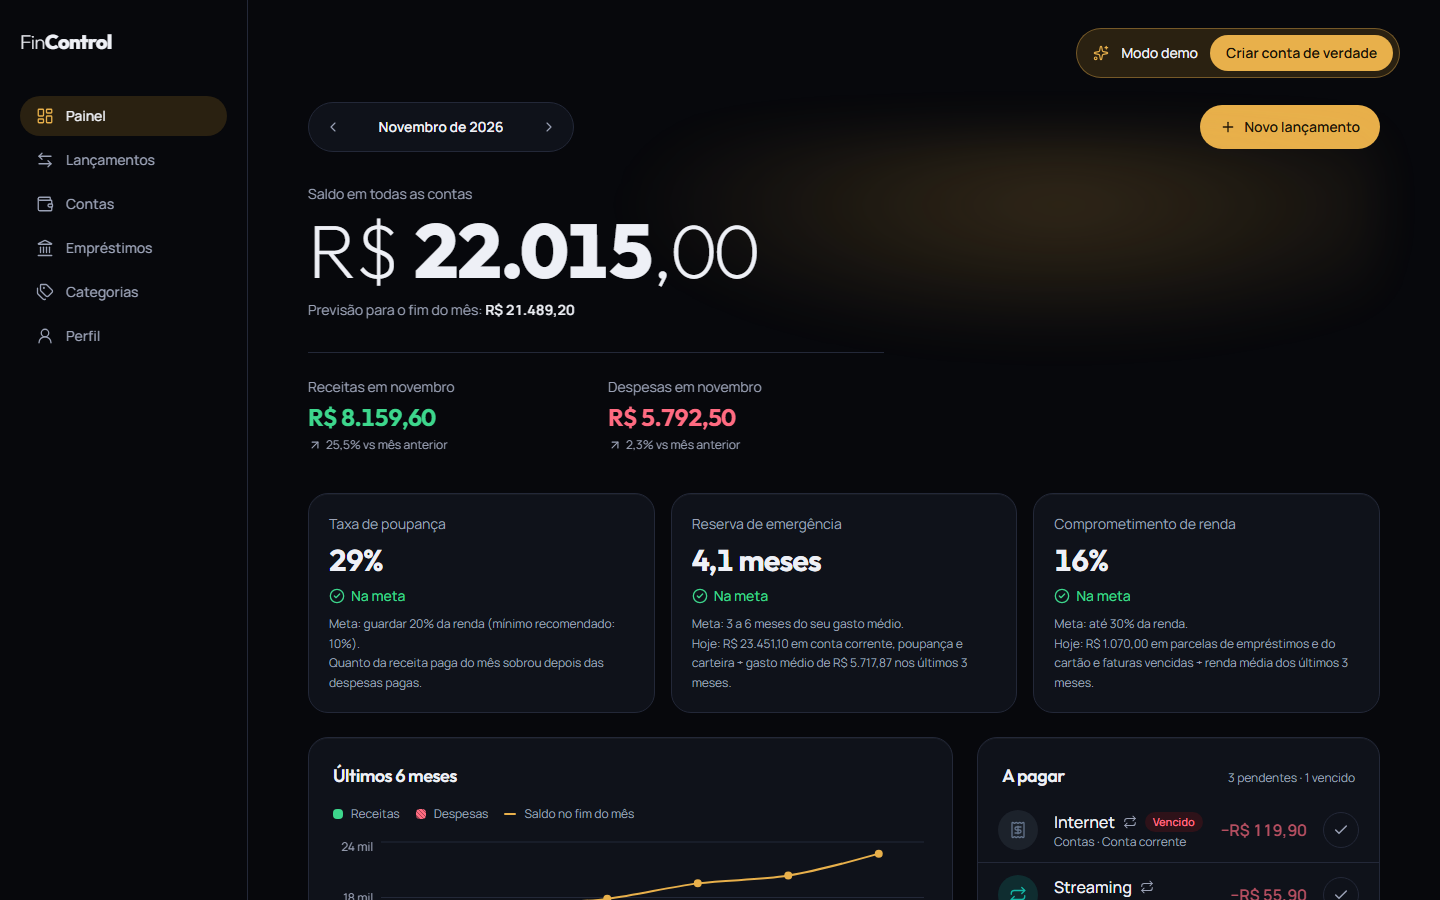
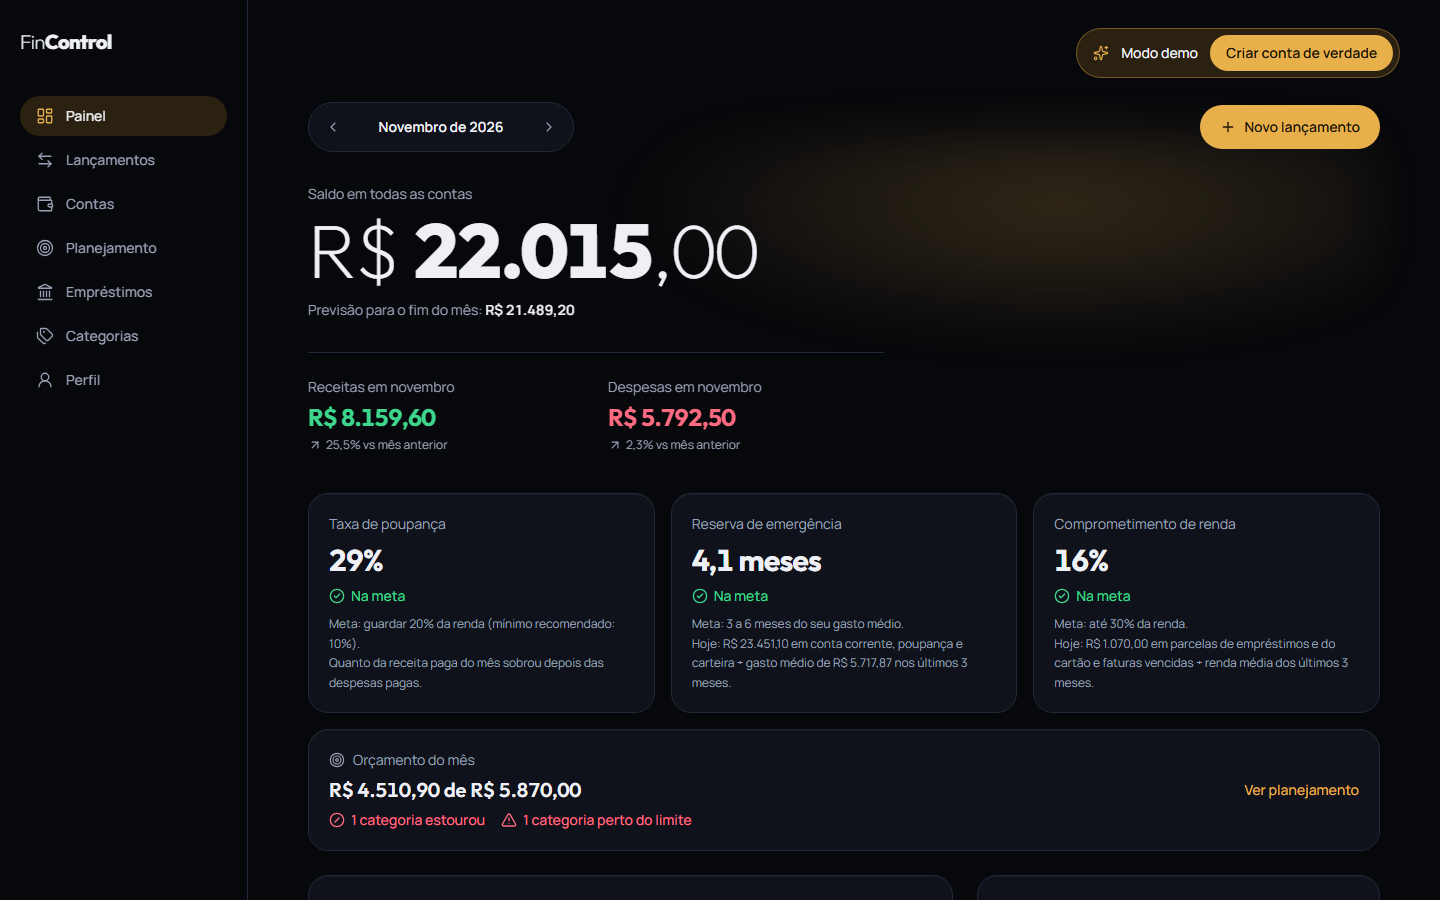
test(e2e): limite por categoria e meta com depósito; docs do sub-projeto 3

diff --git a/e2e/tests/planejamento.spec.ts b/e2e/tests/planejamento.spec.ts
@@ -1,0 +1,55 @@
+import { expect, test } from '@playwright/test';
+import { createAccount, openNewTransaction, signUp, uniqueEmail } from './helpers';
+
+/** Data em São Paulo daqui a `months` meses (dia 1, sempre válido). */
+function firstDayInMonths(months: number): string {
+  const [y, m] = new Intl.DateTimeFormat('en-CA', { timeZone: 'America/Sao_Paulo' }).format(new Date()).split('-').map(Number);
+  const d = new Date(Date.UTC(y!, m! - 1 + months, 1));
+  return d.toISOString().slice(0, 10);
+}
+
+test('limite por categoria avisa "Perto do limite", e a meta acompanha os depósitos', async ({ page }) => {
+  await signUp(page, { name: 'Pia Plano', email: uniqueEmail('planejamento') });
+  await createAccount(page, 'Corrente', '500000');
+
+  // Limite de R$ 500 em Alimentação.
+  await page.goto('/planejamento');
+  await page.getByRole('article', { name: 'Alimentação' }).getByRole('button', { name: 'Definir limite' }).click();
+  const limitDialog = page.getByRole('dialog', { name: 'Limite de Alimentação' });
+  await limitDialog.getByLabel('Limite mensal').fill('50000');
+  await limitDialog.getByRole('button', { name: 'Salvar limite' }).click();
+  await expect(limitDialog).toBeHidden();
+
+  // Despesa paga de R$ 450 em Alimentação → 90%, "Perto do limite" (critério 1).
+  const tx = await openNewTransaction(page);
+  await tx.getByLabel('Valor').fill('45000');
+  await tx.getByLabel('Descrição').fill('Mercado do mês');
+  await tx.getByLabel('Categoria').selectOption({ label: 'Alimentação' });
+  await tx.getByLabel('Já está pago').check();
+  await tx.getByRole('button', { name: 'Salvar lançamento' }).click();
+  await expect(tx).toBeHidden();
+
+  await page.goto('/planejamento');
+  const food = page.getByRole('article', { name: 'Alimentação' });
+  await expect(food).toContainText('R$ 450,00 de R$ 500,00');
+  await expect(food).toContainText('Perto do limite');
+
+  // Meta de R$ 4.000 em 6 meses com um depósito de R$ 1.000 (critério 4).
+  await page.getByRole('tab', { name: 'Metas' }).click();
+  await page.getByRole('button', { name: 'Nova meta' }).first().click();
+  const goalDialog = page.getByRole('dialog', { name: 'Nova meta' });
+  await goalDialog.getByLabel('Nome').fill('Notebook');
+  await goalDialog.getByLabel('Valor da meta').fill('400000');
+  await goalDialog.getByLabel('Prazo').fill(firstDayInMonths(6));
+  await goalDialog.getByRole('button', { name: 'Salvar meta' }).click();
+  await expect(goalDialog).toBeHidden();
+
+  await page.getByRole('article', { name: 'Notebook' }).getByRole('button', { name: 'Ver detalhes' }).click();
+  const detail = page.getByRole('dialog', { name: 'Notebook' });
+  await detail.getByLabel('Valor').fill('100000');
+  await detail.getByRole('button', { name: 'Registrar depósito' }).click();
+  await expect(detail).toContainText('R$ 1.000,00 guardados de R$ 4.000,00');
+  await page.keyboard.press('Escape');
+  await expect(page.getByRole('article', { name: 'Notebook' })).toContainText('R$ 1.000,00 de R$ 4.000,00');
+  await expect(page.getByRole('article', { name: 'Notebook' })).toContainText('25%');
+});

diff --git a/e2e/tests/mobile-e-publico.spec.ts b/e2e/tests/mobile-e-publico.spec.ts
@@ -11,12 +11,27 @@ test.describe('tela de 360 px', () => {
     await page.goto('/emprestimos');
     const emprestimo = await page.getByRole('article', { name: 'Financiamento do carro' }).getByRole('link', { name: /Ver detalhes/ }).getAttribute('href');
 
-    const paths = ['/', '/lancamentos', '/contas', faturas!, '/emprestimos', emprestimo!, '/categorias', '/perfil', '/privacidade', '/termos'];
+    const paths = [
+      '/', '/lancamentos', '/contas', faturas!, '/emprestimos', emprestimo!, '/planejamento', '/planejamento?aba=metas',
+      '/categorias', '/perfil', '/privacidade', '/termos',
+    ];
     for (const path of paths) {
       await page.goto(path);
       await page.waitForLoadState('networkidle');
       const overflow = await page.evaluate(() => document.documentElement.scrollWidth - document.documentElement.clientWidth);
       expect(overflow, `rolagem horizontal em ${path}`).toBeLessThanOrEqual(0);
+      // A área principal usa overflow-x: clip, que esconde o que passa da tela sem gerar rolagem: mede os elementos.
+      const clipped = await page.evaluate(() =>
+        [...document.querySelectorAll('main *')].filter((el) => {
+          if (el.getBoundingClientRect().right <= document.documentElement.clientWidth + 0.5) return false;
+          // Dentro de uma área com rolagem própria (ex.: filtros de Lançamentos), passar da borda é intencional.
+          for (let p = el.parentElement; p && p.tagName !== 'MAIN'; p = p.parentElement) {
+            if (['auto', 'scroll'].includes(getComputedStyle(p).overflowX)) return false;
+          }
+          return true;
+        }).length,
+      );
+      expect(clipped, `conteúdo cortado na borda em ${path}`).toBe(0);
     }
   });
 });

diff --git a/apps/web/src/features/dashboard/category-donut.tsx b/apps/web/src/features/dashboard/category-donut.tsx
@@ -18,7 +18,7 @@ export function CategoryDonut({ data }: { data: CategorySpendDTO[] }) {
   const slices = fold(data);
   const total = slices.reduce((s, c) => s + c.total, 0);
   return (
-    <div className="grid items-center gap-6 sm:grid-cols-[180px_1fr]">
+    <div className="grid grid-cols-1 items-center gap-6 sm:grid-cols-[180px_minmax(0,1fr)]">
       <div className="relative mx-auto h-44 w-44" aria-hidden>
         <ResponsiveContainer width="100%" height="100%">
           <PieChart>
@@ -36,7 +36,7 @@ export function CategoryDonut({ data }: { data: CategorySpendDTO[] }) {
           </div>
         </div>
       </div>
-      <ul className="grid gap-2.5">
+      <ul className="grid min-w-0 grid-cols-1 gap-2.5">
         {slices.map((s) => {
           const Icon = iconFor(s.icon);
           return (
@@ -44,9 +44,9 @@ export function CategoryDonut({ data }: { data: CategorySpendDTO[] }) {
               <span className="grid h-7 w-7 shrink-0 place-items-center rounded-full" style={{ backgroundColor: `${s.color}22`, color: s.color }}>
                 <Icon aria-hidden className="h-3.5 w-3.5" strokeWidth={1.75} />
               </span>
-              <span className="flex-1 truncate">{s.name}</span>
+              <span className="min-w-0 flex-1 truncate">{s.name}</span>
               <span className="tabular text-xs text-muted">{percent.format(total ? s.total / total : 0)}</span>
-              <span className="tabular w-28 text-right font-semibold">{formatBRL(s.total)}</span>
+              <span className="tabular shrink-0 text-right font-semibold sm:w-28">{formatBRL(s.total)}</span>
             </li>
           );
         })}

diff --git a/e2e/tests/screenshots.spec.ts b/e2e/tests/screenshots.spec.ts
@@ -41,6 +41,7 @@ test.describe('desktop', () => {
     await page.goto('/emprestimos');
     const emprestimo = await page.getByRole('article', { name: 'Financiamento do carro' }).getByRole('link', { name: /Ver detalhes/ }).getAttribute('href');
     await shoot(page, emprestimo!, 'emprestimo.png');
+    await shoot(page, '/planejamento', 'planejamento.png');
   });
 });
 

diff --git a/README.md b/README.md
@@ -19,6 +19,8 @@ Gestão financeira pessoal: contas, cartões de crédito, empréstimos e financi
 
 ![Detalhe de um financiamento: taxa real, quanto são juros, saldo devedor e quitação estimada](docs/screenshots/emprestimo.png)
 
+![Planejamento: orçamento por categoria com alertas, sobra planejada e previsão dos próximos 3 meses](docs/screenshots/planejamento.png)
+
 ## O que dá para fazer
 
 - **Várias contas**: corrente, poupança, carteira e investimento, cada uma com o próprio saldo, além de transferências entre elas.
@@ -26,6 +28,8 @@ Gestão financeira pessoal: contas, cartões de crédito, empréstimos e financi
 - **Faturas**: aberta, fechada, paga ou vencida, sempre com ícone e texto. Pagar a fatura é uma transferência da conta pagadora para o cartão, que devolve o limite. Pagar a mais reduz a dívida do cartão.
 - **Empréstimos e financiamentos**: a pessoa informa o que sabe (valor recebido, valor da parcela e número de parcelas) e o app descobre a taxa de juros real, ao mês e ao ano. Ele mostra quanto ela vai devolver e quanto disso é juros, o saldo devedor e a quitação antecipada estimada (CDC art. 52 §2º). As parcelas restantes entram como lançamentos pendentes, e pagar uma delas atualiza o progresso.
 - **Comparação com o Banco Central**: a taxa do contrato é comparada com a do próprio banco e com a mediana do mercado para o mesmo tipo de crédito, com a fonte e o período de referência. As taxas oficiais são sincronizadas toda semana.
+- **Orçamento por categoria**: um limite mensal por categoria de despesa, com o comprometido do mês (pago + a pagar) e a situação escrita (dentro, perto do limite ou estourou). Mostra a sobra planejada (receitas do mês − orçamento) e a previsão dos próximos 3 meses. O limite sugerido é a média dos últimos 3 meses.
+- **Metas**: objetivos com valor e prazo, depósitos e retiradas, percentual alcançado, situação (no ritmo, atrasada, concluída) e quanto guardar por mês até o prazo. Há um atalho para a meta de reserva de emergência, com 6 meses do gasto médio.
 - **Lançamentos**: receitas e despesas, fixas ou variáveis, pagas ou pendentes, com vencimento e categoria.
 - **Recorrências**: o lançamento se repete (toda semana, todo mês ou todo ano) e cada mês ganha a sua ocorrência, que pode ser paga ou editada. Dá para editar “só esta” ou “esta e as próximas”, sem mexer no que já foi pago.
 - **Histórico com filtros combinados**: período, conta, categoria, tipo, situação e busca, com paginação.
@@ -77,10 +81,10 @@ As decisões, com as alternativas descartadas e os motivos, estão nas specs do 
 
 | Camada | Quantidade | Como roda |
 |---|---|---|
-| `packages/shared` | 77 | Unitários (Vitest) |
-| `apps/api` | 198 | Integração contra **Postgres real**: rotas HTTP, regras de saldo, recorrência, cartão e fatura, empréstimos, sincronização com o Banco Central e isolamento entre usuários |
-| `apps/web` | 115 | Componentes e fluxos (Testing Library), com o provedor de identidade simulado |
-| `e2e` | 10 | Chromium contra a pilha inteira |
+| `packages/shared` | 92 | Unitários (Vitest) |
+| `apps/api` | 215 | Integração contra **Postgres real**: rotas HTTP, regras de saldo, recorrência, cartão e fatura, empréstimos, sincronização com o Banco Central e isolamento entre usuários |
+| `apps/web` | 131 | Componentes e fluxos (Testing Library), com o provedor de identidade simulado |
+| `e2e` | 11 | Chromium contra a pilha inteira |
 
 O E2E roda a **web buildada como em produção**, a **API real** e o **Postgres real**. A única peça simulada é o provedor de identidade: um servidor Auth mínimo ([`e2e/fake-auth.ts`](e2e/fake-auth.ts)) que fala o mesmo protocolo do Supabase e assina JWTs ES256 de verdade. Assim, a API valida os tokens pelo mesmo caminho de produção (JWKS, issuer e audience), sem segredos no CI e sem sujar o projeto real. Os cenários seguem os critérios de aceite da spec:
 
@@ -88,9 +92,10 @@ O E2E roda a **web buildada como em produção**, a **API real** e o **Postgres 
 - cadastro, conta e despesa paga, com o saldo da conta atualizado;
 - recorrência mensal sem duplicar ao navegar e recarregar;
 - compra no cartão indo para a fatura, e o pagamento tirando da corrente e devolvendo o limite;
+- limite por categoria avisando "Perto do limite", e meta acompanhando os depósitos;
 - cadastro de empréstimo com a taxa real na prévia, as parcelas em Lançamentos e a exclusão apagando as pendentes;
 - “Excluir minha conta” apagando também o usuário no Auth;
-- nenhuma rolagem horizontal a 360 px, inclusive nas páginas de faturas e de empréstimos;
+- nenhuma rolagem horizontal nem conteúdo cortado a 360 px, em todas as páginas;
 - política de privacidade e termos de uso públicos;
 - rota protegida sem sessão.
 
@@ -132,4 +137,4 @@ Dois projetos na Vercel a partir deste monorepo: `fincontrol-web` (raiz `apps/we
 
 ## Roadmap
 
-São 7 sub-projetos. O 1 (fundação e fluxo de caixa) e o 2 (crédito: cartões, empréstimos e financiamentos) estão prontos. Depois vêm planejamento e metas, relatórios e exportação, notificações e um assistente financeiro com IA. Cada um sai com spec, plano, testes e deploy.
+São 7 sub-projetos. O 1 (fundação e fluxo de caixa), o 2 (crédito: cartões, empréstimos e financiamentos) e o 3 (planejamento e metas) estão prontos. Depois vêm relatórios e exportação, notificações e um assistente financeiro com IA. Cada um sai com spec, plano, testes e deploy.

diff --git a/docs/HANDOFF.md b/docs/HANDOFF.md
@@ -1,6 +1,20 @@
 # HANDOFF — FinControl
 
-_Atualizado em 2026-11-16._
+_Atualizado em 2026-11-16 (sub-projeto 3)._
+
+## Sub-projeto 3: planejamento e metas (2026-11-16, branch feat/planejamento)
+
+- **Spec:** `docs/superpowers/specs/2026-11-16-fincontrol-sp3-planejamento-metas-design.md`. As decisões P1–P10 foram tomadas pelo agente, a pedido do usuário ("não me pergunte mais"). **Plano:** `docs/superpowers/plans/2026-11-16-fincontrol-sp3-planejamento-metas.md`.
+- **Entregue:**
+  - limite mensal por categoria, com o comprometido (pago + a pagar) e as faixas "Dentro", "Perto do limite" e "Estourou";
+  - sobra planejada e previsão de 3 meses;
+  - metas com depósitos e retiradas, situação e aporte mensal, além do atalho de reserva;
+  - o bloco "Orçamento do mês" no painel;
+  - na demo, 4 limites (um perto, um estourado) e 2 metas.
+- **Navegação:** "Planejamento" entrou no lugar de "Categorias" na barra do celular. Categorias continua no menu do computador e no Perfil.
+- **Testes:** o teste de 360 px agora mede conteúdo cortado (o `overflow-x: clip` escondia). Ele achou e corrigiu um corte antigo na legenda do gráfico de categorias.
+- **Testes:** 92 em shared, 215 na API e 131 na web, além de 11 E2E.
+- **Antes do deploy da API:** aplicar a migration `20261116133954_planejamento` no Supabase (`npx prisma migrate deploy` pelo pooler na porta 5432).
 
 ## Sub-projeto 2, Parte A: cartões de crédito (2026-11-13, branch feat/cartoes)
 
